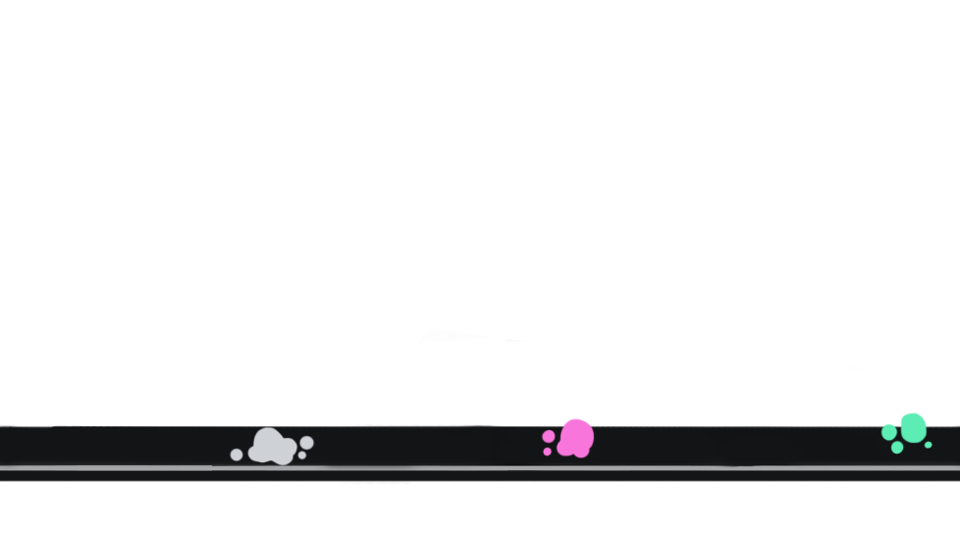
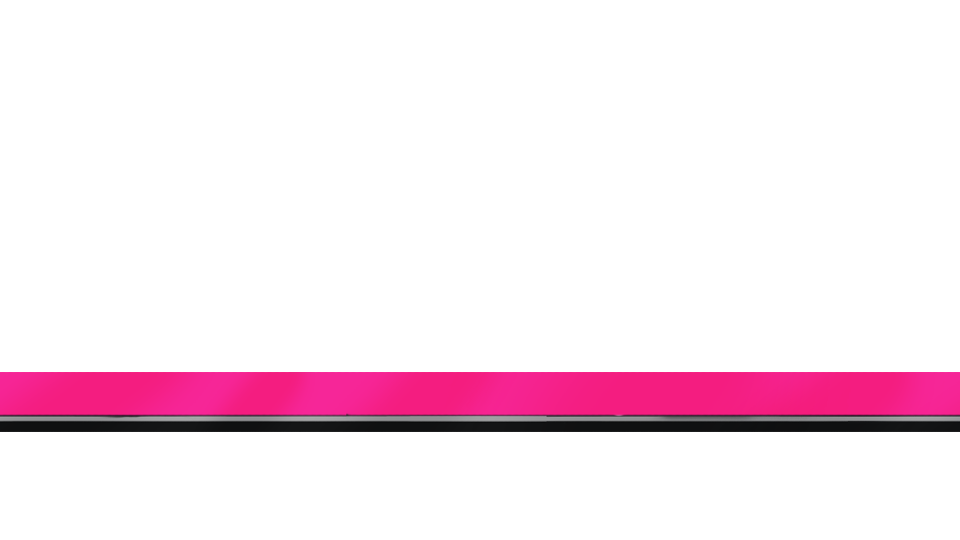
Cake view now looks like a girls' NDS game

Changed region(s): [[0.0, 0.6815, 1.0, 0.9185]]

diff --git a/cakeview.js b/cakeview.js
@@ -13,6 +13,9 @@ var CakeView = function(gameState) {
     this.plateSprite = new Sprite('cakeplate.png');
     this.machineSprite = new Sprite('Cake_Machine.png');
     this.conveyorSprite = new Sprite('production_line.png');
+    this.bgSprite = new Sprite('cake_background.png');
+    this.listBgSprite = new Sprite('digitalsign.png');
+    this.cakeLayerSprite = new Sprite('cake_layer.png');
 
     this.particleSystem = new ParticleSystem(540 - CakeView.CONVEYOR_HEIGHT);
 
@@ -40,7 +43,7 @@ CakeView.CAKE_COUNT = 3;
 CakeView.FILLINGS_PER_CAKE = 3;
 
 CakeView.PLATE_DISTANCE = 240;
-CakeView.CONVEYOR_HEIGHT = 120;
+CakeView.CONVEYOR_HEIGHT = 160;
 
 CakeView.state = {
     RANDOM: 0,
@@ -130,8 +133,7 @@ CakeView.ease = function(x) {
 };
 
 CakeView.prototype.draw = function(ctx) {
-    ctx.fillStyle = '#401';
-    ctx.fillRect(0, 0, ctx.canvas.width, ctx.canvas.height);
+    this.bgSprite.draw(ctx, 0, 0);
 
     this.drawConveyor(ctx);
 
@@ -159,9 +161,9 @@ CakeView.prototype.drawText = function(ctx) {
     if (this.textHidden >= 0 && this.textHidden < this.text.length && this.state !== CakeView.state.FILLING) {
         shownText = this.text.substring(0, this.textHidden) + ' ' + this.text.substring(this.textHidden + 1, this.text.length);
     }
-    
+
     var textX = (CakeView.SLOT_RECT.left + CakeView.SLOT_RECT.right) * 0.5;
-    var textY = CakeView.SLOT_RECT.bottom + 20;
+    var textY = CakeView.SLOT_RECT.bottom + 27;
     ctx.fillStyle = '#b05';
     ctx.fillText(shownText, textX + 1, textY + 1);
     ctx.fillText(shownText, textX - 1, textY + 1);
@@ -173,11 +175,17 @@ CakeView.prototype.drawText = function(ctx) {
 
 CakeView.prototype.drawConveyor = function(ctx) {
     var platePos = new Vec2((CakeView.SLOT_RECT.left + CakeView.SLOT_RECT.right) * 0.5, ctx.canvas.height - CakeView.CONVEYOR_HEIGHT);
-    var listPos = new Vec2((CakeView.SLOT_RECT.left + CakeView.SLOT_RECT.right) * 0.5, ctx.canvas.height - CakeView.CONVEYOR_HEIGHT * 0.7);
+    var listPos = new Vec2((CakeView.SLOT_RECT.left + CakeView.SLOT_RECT.right) * 0.5, ctx.canvas.height - 92);
+    var listBgPos = new Vec2(listPos.x, listPos.y + 37);
 
     platePos.x -= this.conveyorPosition * CakeView.PLATE_DISTANCE;
     listPos.x -= this.currentCake * CakeView.PLATE_DISTANCE;
-    
+    listBgPos.x -= CakeView.CAKE_COUNT * CakeView.PLATE_DISTANCE;
+    for (var i = 0; i < CakeView.CAKE_COUNT * 2; ++i) {
+        this.listBgSprite.drawRotated(ctx, listBgPos.x, listBgPos.y);
+        listBgPos.x += CakeView.PLATE_DISTANCE;
+    }
+
     var conveyorX = platePos.x;
     while (conveyorX < 0) {
         conveyorX += ctx.canvas.width;
@@ -189,7 +197,7 @@ CakeView.prototype.drawConveyor = function(ctx) {
     for (var i = 0; i < CakeView.CAKE_COUNT; ++i) {
         this.plateSprite.drawRotated(ctx, platePos.x, platePos.y);
         if (Math.abs(this.conveyorPosition - this.currentCake) < 0.2) {
-            this.gameState.cakes[i].drawList(ctx, listPos.x, listPos.y, '#fff', '#888');
+            this.gameState.cakes[i].drawList(ctx, listPos.x, listPos.y, '#000', '#555');
         }
         platePos.x += CakeView.PLATE_DISTANCE;
         listPos.x += CakeView.PLATE_DISTANCE;

diff --git a/targetingview.js b/targetingview.js
@@ -320,10 +320,10 @@ TargetingView.prototype.draw = function(ctx) {
 		} else {
 			text += " -> " + COUNTRIES[this.deliveries[i]]["name"];
 		}
-        ctx.font = '25px digital';
+        ctx.font = '22px digital';
         ctx.textAlign = 'left';
 		ctx.textBaseline = "bottom";
 		if (i == this.selectedCake) ctx.fillStyle = "ffff00"; else ctx.fillStyle = "00ffff";
-		ctx.fillText(text, 30, ctx.canvas.height - 30 * i - 20);
+		ctx.fillText(text, 30, ctx.canvas.height - 25 * i - 20);
 	}
 };
